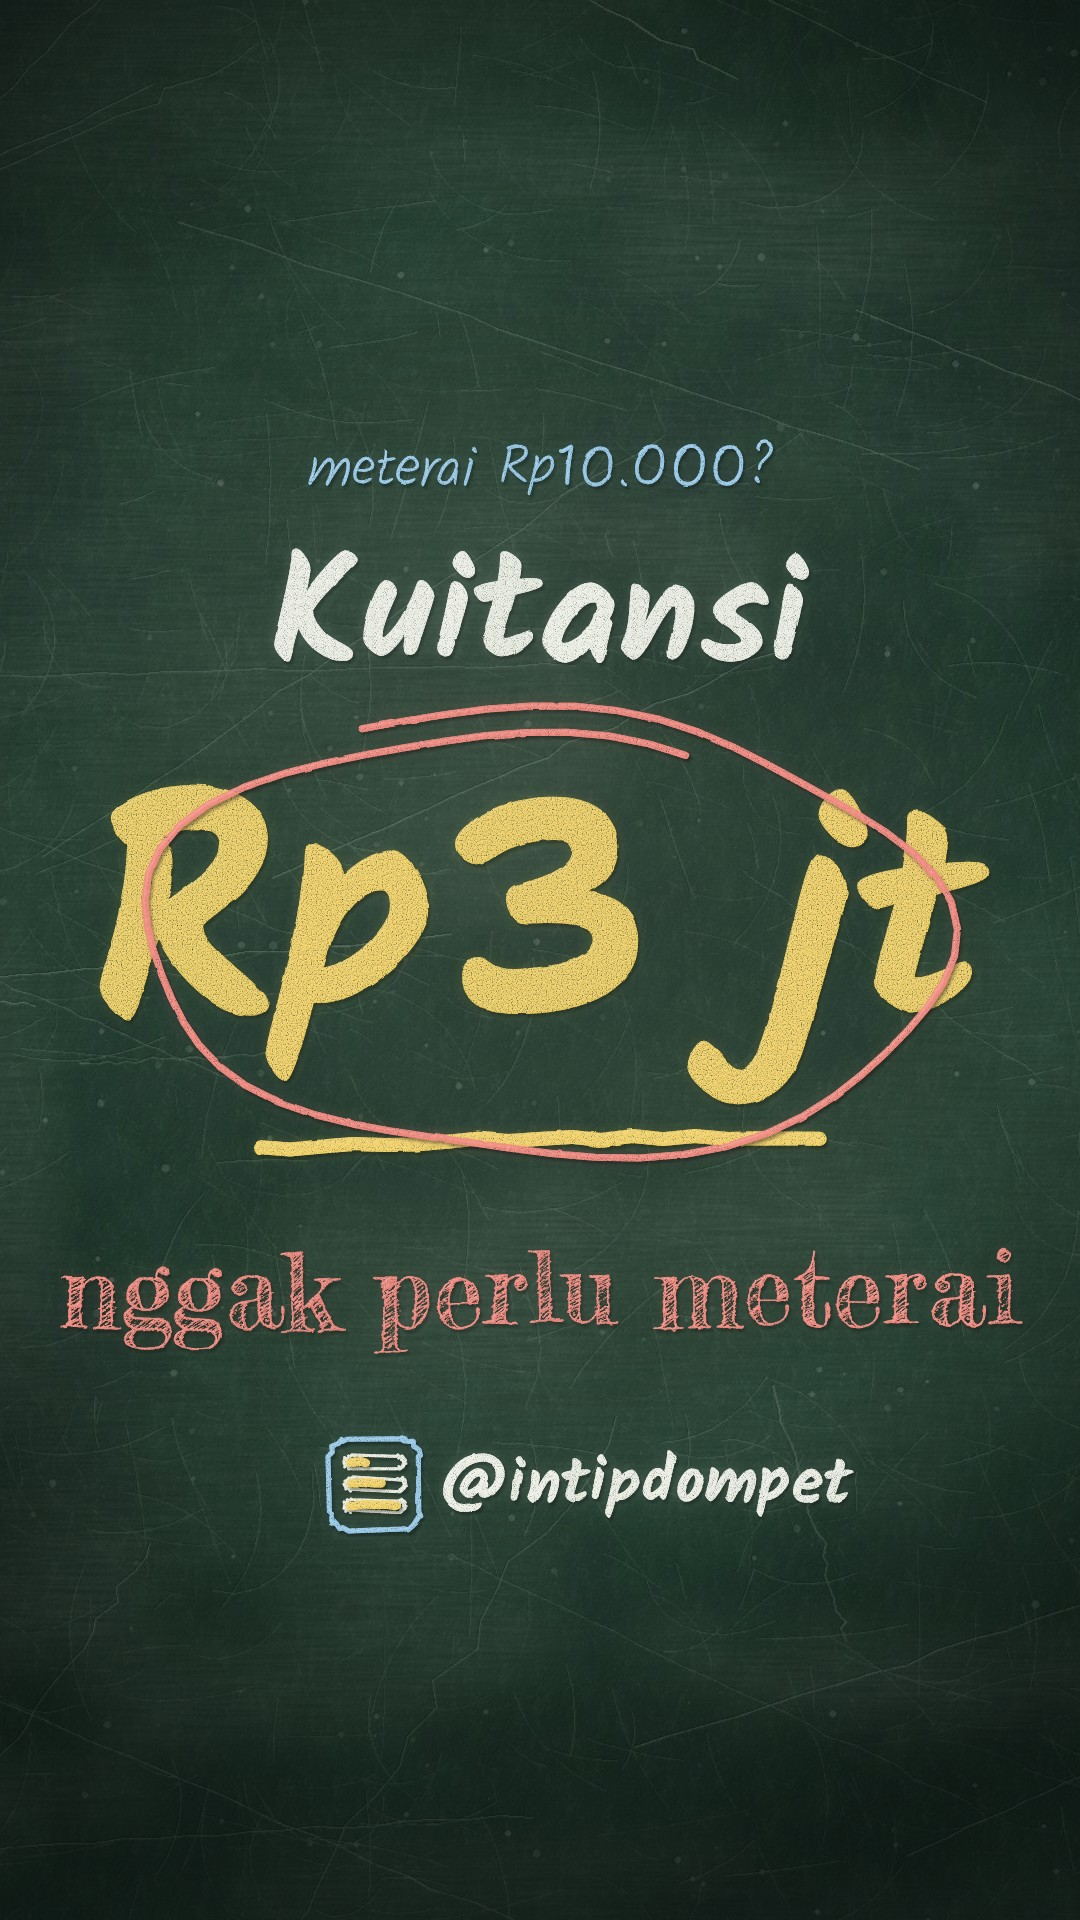
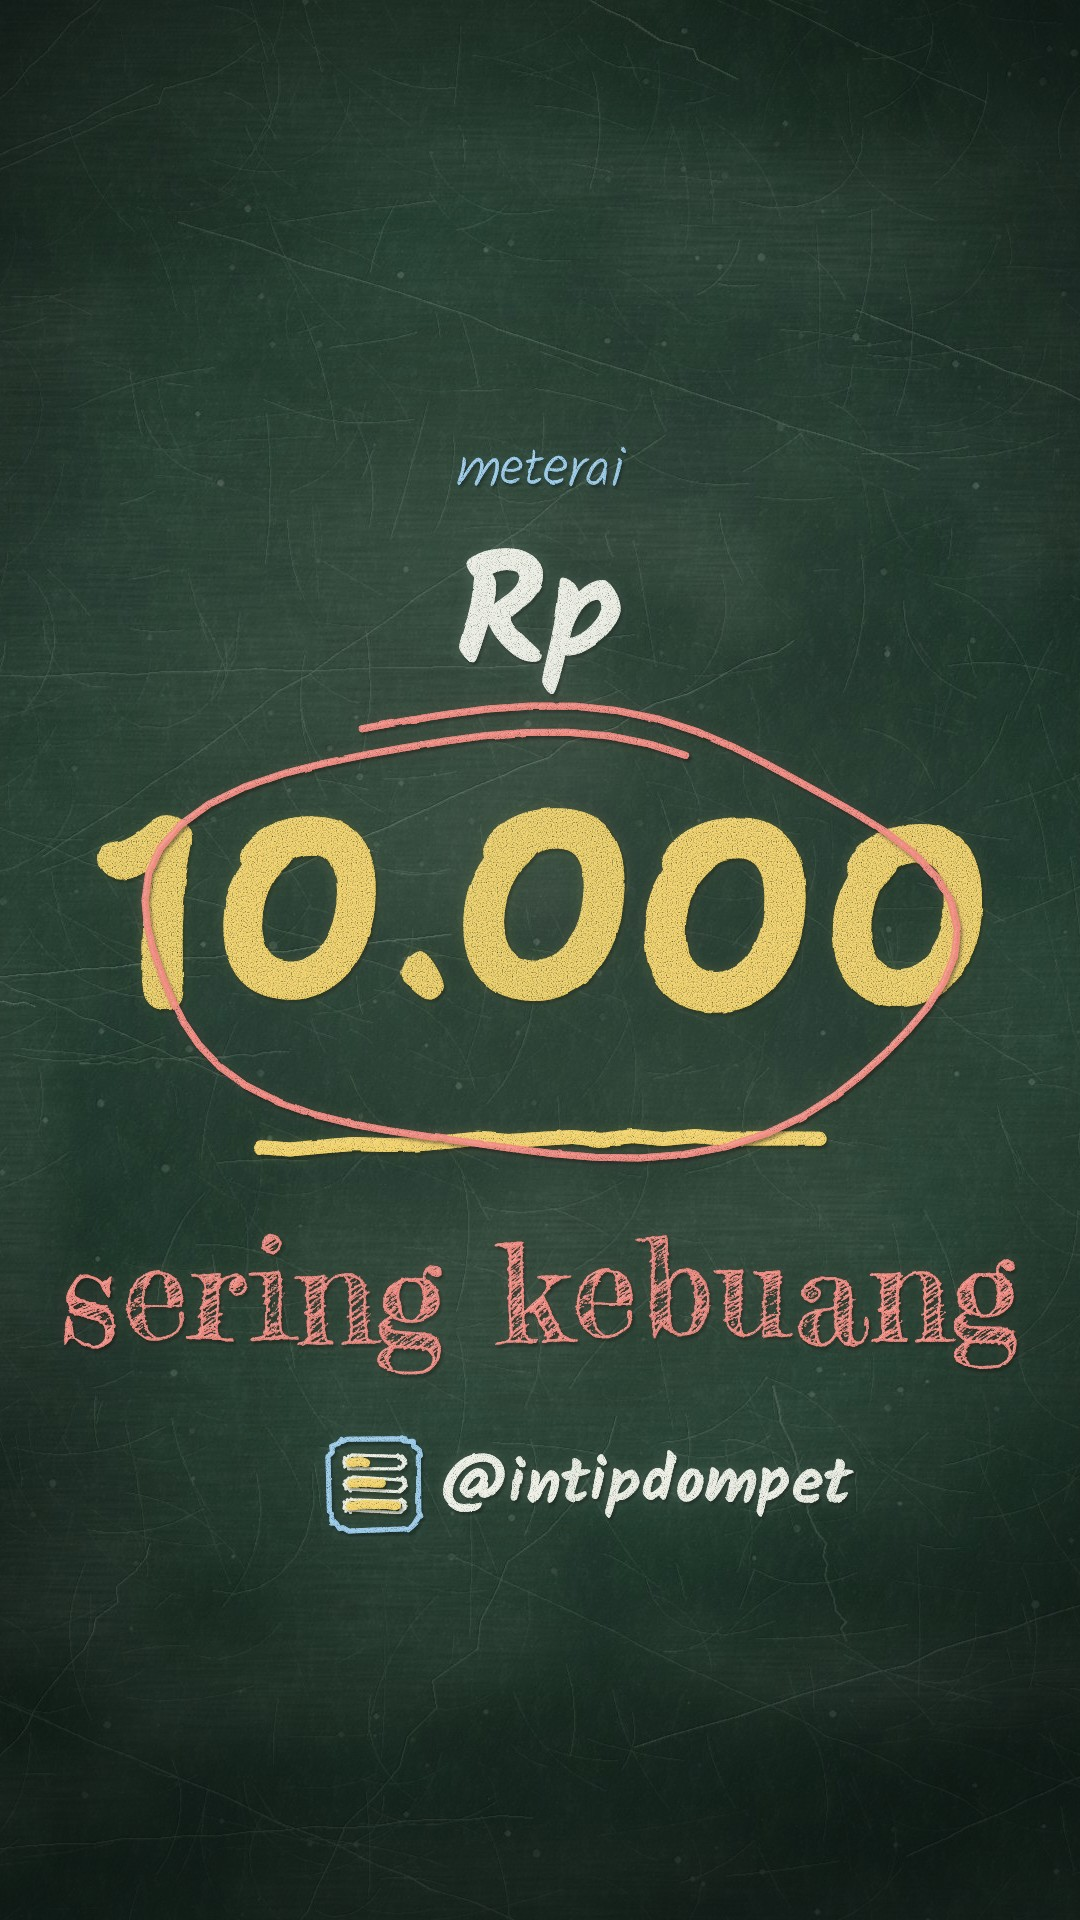
Reels meterai: dibangun ulang dengan format v3.1 (4 blok, tips 3 langkah); sampul angka raksasa
Claude-Session: https://claude.ai/code/session_01KMbroAGncEDBsqPKKLLpNR

diff --git a/src/produksi/meterai-kuitansi/Video.tsx b/src/produksi/meterai-kuitansi/Video.tsx
@@ -1,83 +1,118 @@
-// Reels "Kuitansi tiga juta nggak perlu meterai" (tayang 19 Nov 2026, 12.00, hook tipe C) — Papan Kapur v3 (TATA_V3).
-// Naskah: produksi/20261119-meterai-kuitansi/naskah-vo.json (3 blok).
-//   A hook: kuitansi raksasa "Rp3.000.000" + meterai Rp10.000 dicoret (gerak mulai frame 2) · B garis bilangan Rp5 jt (UU 10/2020)
-//   + koin Rp10 rb ke tempat sampah · C cek nominal + CTA, akhir kembali ke hook (loop).
+// Reels "Sepuluh ribu. Sering kebuang percuma." (tayang 19 Nov 2026, 12.00) — Papan Kapur v3.1 (TATA_V31, 4 blok).
+// Naskah: produksi/20261119-meterai-kuitansi/naskah-vo.json.
+//   A hook: "Rp" kecil + "10.000" raksasa, dicoret mulai frame 2, meterai jatuh ke tempat sampah · B fakta: garis bilangan Rp5 jt (UU 10/2020)
+//   · C TIP: tiga langkah bernomor, tiap langkah tertahan ≥ 2,5 s · D CTA, akhir kembali ke hook (loop).
 //
 // vo-waktu.json: VO_AMBANG_DB=-35 VO_JEDA_MIN=0.13 python3 scripts/sinkron_vo.py produksi/20261119-meterai-kuitansi src/produksi/meterai-kuitansi/vo-waktu.json
 import React from "react";
+import { useCurrentFrame } from "remotion";
 import naskah from "../../../produksi/20261119-meterai-kuitansi/naskah-vo.json";
 import vo from "./vo-waktu.json";
-import { Coret, Panah, Tulis, garis, lingkaran } from "../../papan/Komponen";
+import { Coret, Panah, Tulis, TungguFont, garis, lingkaran, p01, ukurLebar } from "../../papan/Komponen";
 import { d, k } from "../../papan/tema";
 import { BENDA, Bentuk } from "../../papan/ilustrasi";
 import { DataVO } from "../../catatan/Jadwal";
-import { A, B, Muncul, ReelsPapan, TATA_V3, buatReels, centang, persegi } from "../../papan/reels";
+import { A, B, C, Muncul, ReelsPapan, TATA_V31, buatReels, centang, persegi } from "../../papan/reels";
 
-const R = buatReels(vo as DataVO, naskah, TATA_V3);
+const R = buatReels(vo as DataVO, naskah, TATA_V31);
 const { W } = R;
-const C = { ...R.cta, x0: R.cta.x - 540 };
+const D = { ...R.cta, x0: R.cta.x - 540 };
 export const DURASI_METERAI = R.durasi;
 const B_ = BENDA;
 const SUDAH = -9999;
 
-const IsiPapan: React.FC = () => (
+/** Prangko meterai kapur (persegi merah bergerigi tipis) dengan nilai di tengah. */
+const Meterai: React.FC<{ x: number; y: number; w?: number; nilai: string }> = ({ x, y, w = 220, nilai }) => {
+  const h = w * 0.7;
+  return (
+    <>
+      <Bentuk pts={persegi(x - w / 2, y - h / 2, w, h)} warna={k.merah} garis={k.putih} isi={0.32} tebal={5} />
+      <Tulis x={x} y={y - h * 0.12} teks="METERAI" ukuran={w * 0.16} gaya="tebal" mulai={SUDAH} rata="center" />
+      <Tulis x={x} y={y + h * 0.3} teks={nilai} ukuran={Math.min(w * 0.28, (w * 0.85) / (nilai.length * 0.55))} gaya="tebal" mulai={SUDAH} rata="center" />
+    </>
+  );
+};
+
+/** Meterai yang jatuh ke tempat sampah antara frame `mulai` dan `mulai + lama`. */
+const MeteraiJatuh: React.FC<{ x: number; y0: number; y1: number; mulai: number; lama: number }> = ({ x, y0, y1, mulai, lama }) => {
+  const fr = useCurrentFrame();
+  const p = p01(fr, mulai, lama);
+  const y = y0 + (y1 - y0) * p * p;
+  return (
+    <div style={{ position: "absolute", left: 0, top: 0, transform: `rotate(${p * 25}deg)`, transformOrigin: `${x}px ${y}px`, opacity: 1 - p * 0.35 }}>
+      <Meterai x={x} y={y} w={190} nilai="10.000" />
+    </div>
+  );
+};
+
+const AngkaRaksasa: React.FC<{ x: number; y: number; teks: string; warna: string; maks?: number }> = ({ x, y, teks, warna, maks = 920 }) => {
+  const u = Math.min(560, (560 * maks) / ukurLebar(teks, 560, "tebal"));
+  return <Tulis x={x} y={y} teks={teks} ukuran={u} gaya="tebal" warna={warna} mulai={SUDAH} rata="center" tebalFilter />;
+};
+
+/** Satu langkah tips: nomor bulat + baris judul + baris kecil; muncul pada frame `mulai`. */
+const Langkah: React.FC<{ n: number; y: number; judul: string; kecil: string; mulai: number; warnaKecil?: string }> = ({ n, y, judul, kecil, mulai, warnaKecil = k.biru }) => (
   <>
-    {/* ===== A: hook — kuitansi raksasa utuh di frame 0; meterai dicoret mulai frame 2 ===== */}
-    <Tulis x={A.x} y={A.y0 + 250} teks="kuitansi" ukuran={96} gaya="tebal" mulai={SUDAH} rata="center" />
-    <Bentuk pts={persegi(A.x0 + 60, A.y0 + 320, 960, 560)} warna={k.putih} isi={0.08} tebal={7} />
-    <Tulis x={A.x0 + 110} y={A.y0 + 430} teks="Terima dari: …" ukuran={50} warna={k.biru} mulai={SUDAH} />
-    <Tulis x={A.x0 + 110} y={A.y0 + 530} teks="Rp" ukuran={110} gaya="tebal" warna={k.kuning} mulai={SUDAH} />
-    <Tulis x={A.x} y={A.y0 + 740} teks="3.000.000" ukuran={170} gaya="tebal" warna={k.kuning} mulai={SUDAH} rata="center" tebalFilter />
-    <Bentuk pts={persegi(A.x0 + 760, A.y0 + 380, 210, 150)} warna={k.merah} garis={k.putih} isi={0.3} tebal={5} />
-    <Tulis x={A.x0 + 865} y={A.y0 + 430} teks="METERAI" ukuran={34} gaya="tebal" mulai={SUDAH} rata="center" />
-    <Tulis x={A.x0 + 865} y={A.y0 + 500} teks="10.000" ukuran={54} gaya="tebal" mulai={SUDAH} rata="center" />
-    <Coret pts={garis(A.x0 + 740, A.y0 + 360, A.x0 + 990, A.y0 + 550, 2, 3)} mulai={2} lama={4} warna={k.merah} tebal={14} kapur={false} />
-    <Coret pts={garis(A.x0 + 990, A.y0 + 360, A.x0 + 740, A.y0 + 550, 3, 3)} mulai={6} lama={4} warna={k.merah} tebal={14} kapur={false} />
-    <Tulis x={A.x} y={A.y0 + 1030} teks="nggak perlu meterai" ukuran={104} gaya="tebal" warna={k.merah} mulai={SUDAH} rata="center" tebalFilter />
-    <Tulis x={A.x0 + 960} y={A.y0 + 860} teks="contoh" ukuran={36} gaya="tipis" warna={k.biru} mulai={SUDAH} rata="right" />
-
-    {/* ===== B: aturan + efek ===== */}
-    <Tulis x={B.x} y={B.y0 + 250} teks="UU 10/2020" ukuran={96} gaya="tebal" mulai={R.tiba(1)} perHuruf={1} rata="center" />
-    <Muncul mulai={R.tiba(1)}>
-      <Bentuk pts={persegi(B.x0 + 700, B.y0 + 330, 230, 160)} warna={k.merah} garis={k.putih} isi={0.3} tebal={5} />
-      <Tulis x={B.x0 + 815} y={B.y0 + 385} teks="METERAI" ukuran={36} gaya="tebal" mulai={SUDAH} rata="center" />
-      <Tulis x={B.x0 + 815} y={B.y0 + 460} teks="10.000" ukuran={60} gaya="tebal" mulai={SUDAH} rata="center" />
-    </Muncul>
-    <Tulis x={B.x0 + 330} y={B.y0 + 440} teks="wajib kalau…" ukuran={72} gaya="hias" warna={k.biru} mulai={W(1, "mewajibkan", -0.3)} perHuruf={1} rata="center" />
-    <Coret pts={garis(B.x0 + 80, B.y0 + 700, B.x0 + 960, B.y0 + 700, 5, 2)} mulai={W(1, "hanya untuk", -0.5)} lama={8} tebal={7} />
-    <Panah x1={B.x0 + 880} y1={B.y0 + 700} x2={B.x0 + 990} y2={B.y0 + 700} tinggi={30} mulai={W(1, "hanya untuk", -0.3)} lama={4} tebal={7} />
-    <Coret pts={garis(B.x, B.y0 + 640, B.x, B.y0 + 760, 6, 1)} mulai={W(1, "lima juta", -0.6)} lama={6} warna={k.kuning} tebal={9} />
-    <Tulis x={B.x} y={B.y0 + 840} teks="Rp5 jt" ukuran={84} gaya="tebal" warna={k.kuning} mulai={W(1, "lima juta", -0.5)} perHuruf={1.4} rata="center" />
-    <Tulis x={B.x0 + 780} y={B.y0 + 620} teks="> Rp5 jt: wajib" ukuran={60} gaya="tebal" mulai={W(1, "di atas", -0.3)} perHuruf={1} rata="center" />
-    <Tulis x={B.x0 + 280} y={B.y0 + 620} teks="≤ Rp5 jt: nggak" ukuran={60} gaya="tebal" warna={k.hijauTerang} mulai={W(1, "Di bawah itu", -0.4)} perHuruf={1} rata="center" />
-    <Muncul mulai={W(1, "sepuluh ribumu", -0.4)}>
-      <B_.koin cx={B.x0 + 300} cy={B.y0 + 1000} s={170} teks="10rb" />
-    </Muncul>
-    <Panah x1={B.x0 + 410} y1={B.y0 + 1000} x2={B.x0 + 600} y2={B.y0 + 1030} tinggi={30} mulai={W(1, "terbuang", -0.4)} lama={6} warna={k.merah} tebal={7} />
-    <Muncul mulai={W(1, "terbuang", -0.3)}>
-      <B_.ember cx={B.x0 + 730} cy={B.y0 + 1010} s={220} />
-    </Muncul>
-    <Tulis x={B.x} y={B.y0 + 1200} teks="Rp10.000 terbuang" ukuran={78} gaya="tebal" warna={k.merah} mulai={W(1, "terbuang", 0)} perHuruf={1} rata="center" tebalFilter />
-
-    {/* ===== C: aksi + CTA ===== */}
-    <Tulis x={C.x} y={C.y0 + 260} teks="cek nominal dulu" ukuran={96} gaya="tebal" warna={k.kuning} mulai={R.tiba(2)} perHuruf={0.8} rata="center" />
-    <Muncul mulai={R.tiba(2)}>
-      <Bentuk pts={persegi(C.x0 + 140, C.y0 + 340, 520, 260)} warna={k.putih} isi={0.08} tebal={5} />
-    </Muncul>
-    <Tulis x={C.x0 + 400} y={C.y0 + 500} teks="> Rp5 jt?" ukuran={86} gaya="tebal" mulai={W(2, "nominal", 0)} perHuruf={1.2} rata="center" />
-    <Coret pts={centang(C.x0 + 740, C.y0 + 480, 1.5)} mulai={W(2, "sebelum tempel", -0.2)} lama={8} warna={k.hijauTerang} tebal={12} />
-    <Muncul mulai={W(2, "Pernah begitu", -0.3)}>
-      <B_.gelembung cx={C.x + 100} cy={C.y0 + 780} s={460} teks="ya / nggak" />
-    </Muncul>
-    <Tulis x={C.x} y={C.y0 + 990} teks="komen ↓" ukuran={100} gaya="hias" warna={k.kuning} mulai={W(2, "Komen", -0.2)} perHuruf={1.4} rata="center" />
-    <Tulis x={C.x} y={C.y0 + 1110} teks="IntipDompet" ukuran={110} gaya="tebal" mulai={W(2, "IntipDompet", -0.1)} perHuruf={1.2} rata="center" />
-    <Tulis x={C.x} y={C.y0 + 1190} teks="Biar dompetmu nggak kaget." ukuran={70} gaya="hias" warna={k.kuning} mulai={W(2, "Biar dompetmu", -0.1)} perHuruf={1} rata="center" />
-    <Coret pts={lingkaran(C.x0 + 400, C.y0 + 470, 300, 150, 4)} mulai={W(2, "Cek nominal", 0)} lama={10} warna={k.kuning} tebal={5} />
+    <Coret pts={lingkaran(C.x0 + 120, y - 20, 50, 50, n)} mulai={mulai} lama={8} warna={k.kuning} tebal={6} />
+    <Tulis x={C.x0 + 120} y={y + 5} teks={String(n)} ukuran={70} gaya="tebal" warna={k.kuning} mulai={mulai} perHuruf={2} rata="center" />
+    <Tulis x={C.x0 + 200} y={y - 10} teks={judul} ukuran={64} gaya="tebal" mulai={mulai + 4} perHuruf={0.7} />
+    <Tulis x={C.x0 + 200} y={y + 75} teks={kecil} ukuran={Math.min(54, (820 * 54) / ukurLebar(kecil, 54, "tangan"))} warna={warnaKecil} mulai={mulai + 12} perHuruf={0.5} />
   </>
 );
 
-const TEKS_TAMPIL = naskah.blok.map((b) => b.teks.replace(/ IntipDompet\. Biar dompetmu nggak kaget\.$/, ""))
-  .map((t) => t.replace("tiga juta", "Rp3 juta").replace("sepuluh ribu", "Rp10.000").replace("lima juta rupiah", "Rp5 juta").replace("sepuluh ribumu", "Rp10.000-mu"));
+const IsiPapan: React.FC = () => (
+  <TungguFont>
+    {/* ===== A: hook — "Rp" kecil + "10.000" raksasa, coretan mulai frame 2, meterai jatuh ke tempat sampah ===== */}
+    <Tulis x={A.x0 + 110} y={A.y0 + 420} teks="Rp" ukuran={150} gaya="tebal" warna={k.kuning} mulai={SUDAH} />
+    <AngkaRaksasa x={A.x} y={A.y0 + 760} teks="10.000" warna={k.kuning} maks={860} />
+    <Coret pts={garis(A.x0 + 70, A.y0 + 720, A.x0 + 1010, A.y0 + 650, 3, 4)} mulai={2} lama={6} warna={k.merah} tebal={18} kapur={false} />
+    <Tulis x={A.x} y={A.y0 + 950} teks="sering kebuang" ukuran={120} gaya="tebal" warna={k.merah} mulai={SUDAH} rata="center" tebalFilter />
+    <MeteraiJatuh x={A.x0 + 330} y0={A.y0 + 1100} y1={A.y0 + 1210} mulai={3} lama={12} />
+    <B_.ember cx={A.x0 + 720} cy={A.y0 + 1180} s={200} />
+    <Panah x1={A.x0 + 450} y1={A.y0 + 1160} x2={A.x0 + 600} y2={A.y0 + 1180} tinggi={24} mulai={SUDAH} lama={1} warna={k.merah} tebal={6} />
+
+    {/* ===== B: fakta (tahan ≥ 2,5 s) ===== */}
+    <Tulis x={B.x} y={B.y0 + 250} teks="meterai wajib kalau…" ukuran={84} gaya="tebal" mulai={R.tiba(1)} perHuruf={0.8} rata="center" />
+    <Coret pts={garis(B.x0 + 80, B.y0 + 640, B.x0 + 960, B.y0 + 640, 5, 2)} mulai={R.tiba(1)} lama={8} tebal={7} />
+    <Panah x1={B.x0 + 880} y1={B.y0 + 640} x2={B.x0 + 990} y2={B.y0 + 640} tinggi={30} mulai={R.tiba(1) + 6} lama={4} tebal={7} />
+    <Coret pts={garis(B.x, B.y0 + 580, B.x, B.y0 + 700, 6, 1)} mulai={W(1, "di atas lima juta", -0.4)} lama={6} warna={k.kuning} tebal={9} />
+    <Tulis x={B.x} y={B.y0 + 780} teks="Rp5 jt" ukuran={84} gaya="tebal" warna={k.kuning} mulai={W(1, "di atas lima juta", -0.3)} perHuruf={1.4} rata="center" />
+    <Tulis x={B.x0 + 790} y={B.y0 + 520} teks="> Rp5 jt" ukuran={72} gaya="tebal" mulai={W(1, "di atas lima juta", 0)} perHuruf={1} rata="center" />
+    <Meterai x={B.x0 + 790} y={B.y0 + 390} w={170} nilai="10.000" />
+    <Tulis x={B.x0 + 290} y={B.y0 + 520} teks="≤ Rp5 jt" ukuran={72} gaya="tebal" warna={k.hijauTerang} mulai={W(1, "Pas lima juta", -0.3)} perHuruf={1} rata="center" />
+    <Tulis x={B.x0 + 290} y={B.y0 + 420} teks="belum wajib" ukuran={60} warna={k.hijauTerang} mulai={W(1, "belum wajib", -0.3)} perHuruf={1} rata="center" />
+    <Tulis x={B.x} y={B.y0 + 1000} teks="pas Rp5.000.000 pun" ukuran={78} gaya="tebal" mulai={W(1, "Pas lima juta", -0.1)} perHuruf={0.8} rata="center" />
+    <Tulis x={B.x} y={B.y0 + 1110} teks="belum wajib" ukuran={96} gaya="tebal" warna={k.hijauTerang} mulai={W(1, "belum wajib", -0.2)} perHuruf={1} rata="center" tebalFilter />
+    <Tulis x={B.x} y={B.y0 + 1200} teks="UU 10/2020" ukuran={44} gaya="tipis" warna={k.biru} mulai={R.tiba(1)} perHuruf={0.8} rata="center" />
+
+    {/* ===== C: TIP — tiga langkah, tiap langkah tertahan ≥ 2,5 s ===== */}
+    <Tulis x={C.x} y={C.y0 + 230} teks="Biar nggak ketipu:" ukuran={88} gaya="hias" warna={k.kuning} mulai={R.tiba(2)} perHuruf={0.8} rata="center" />
+    <Langkah n={1} y={C.y0 + 420} judul="beli di e-meterai.co.id" kecil="resmi Peruri · jangan < Rp10.000" mulai={R.tiba(2)} />
+    <Langkah n={2} y={C.y0 + 700} judul="cek keaslian:" kecil="verification.peruri.co.id → unggah PDF" mulai={W(2, "Cek keasliannya", -0.3)} />
+    <Langkah n={3} y={C.y0 + 980} judul="meterai Rp3.000 / Rp6.000" kecil="nggak berlaku sejak 2022" mulai={W(2, "Satu lagi", -0.2)} warnaKecil={k.merah} />
+    <Muncul mulai={W(2, "Satu lagi", 0.2)}>
+      <Meterai x={C.x0 + 860} y={C.y0 + 1150} w={150} nilai="6000" />
+    </Muncul>
+    <Coret pts={garis(C.x0 + 780, C.y0 + 1200, C.x0 + 940, C.y0 + 1100, 7, 3)} mulai={W(2, "sudah nggak berlaku", -0.2)} lama={8} warna={k.merah} tebal={9} />
+
+    {/* ===== D: CTA ===== */}
+    <Tulis x={D.x} y={D.y0 + 280} teks="masih simpan meterai lama?" ukuran={70} gaya="tebal" mulai={R.tiba(3)} perHuruf={0.6} rata="center" />
+    <Muncul mulai={R.tiba(3)}>
+      <B_.gelembung cx={D.x + 80} cy={D.y0 + 540} s={480} teks="ya / nggak" />
+    </Muncul>
+    <Tulis x={D.x} y={D.y0 + 790} teks="komen ↓" ukuran={110} gaya="hias" warna={k.kuning} mulai={W(3, "Komen", -0.2)} perHuruf={1.4} rata="center" />
+    <Tulis x={D.x} y={D.y0 + 980} teks="IntipDompet" ukuran={130} gaya="tebal" mulai={W(3, "IntipDompet", -0.1)} perHuruf={1.2} rata="center" />
+    <Tulis x={D.x} y={D.y0 + 1080} teks="Biar dompetmu nggak kaget." ukuran={66} gaya="hias" warna={k.kuning} mulai={W(3, "Biar dompetmu", -0.1)} perHuruf={1} rata="center" />
+    <Tulis x={D.x} y={D.y0 + 1170} teks="konten edukasi · UU 10/2020, PMK 133/2021, Peruri" ukuran={34} gaya="tipis" warna={k.biru} mulai={W(3, "IntipDompet", 0.3)} perHuruf={0.4} rata="center" />
+  </TungguFont>
+);
+
+const TEKS_TAMPIL = [
+  "Rp10.000. Sering kebuang percuma.",
+  "Meterai cuma wajib di kuitansi di atas Rp5 juta. Pas Rp5 juta pun belum wajib.",
+  "Beli e-meterai hanya di situs resmi Peruri, jangan yang di bawah Rp10.000. Cek keasliannya dengan mengunggah PDF ke situs verifikasi Peruri. Satu lagi, meterai lama Rp3.000 dan Rp6.000 sudah nggak berlaku.",
+  "Masih simpan meterai lama? Komen ya atau nggak.",
+];
 
 export const MeteraiReels: React.FC<{ subtitel?: boolean }> = ({ subtitel = true }) => (
   <ReelsPapan r={R} teksTampil={TEKS_TAMPIL} subtitel={subtitel}>
